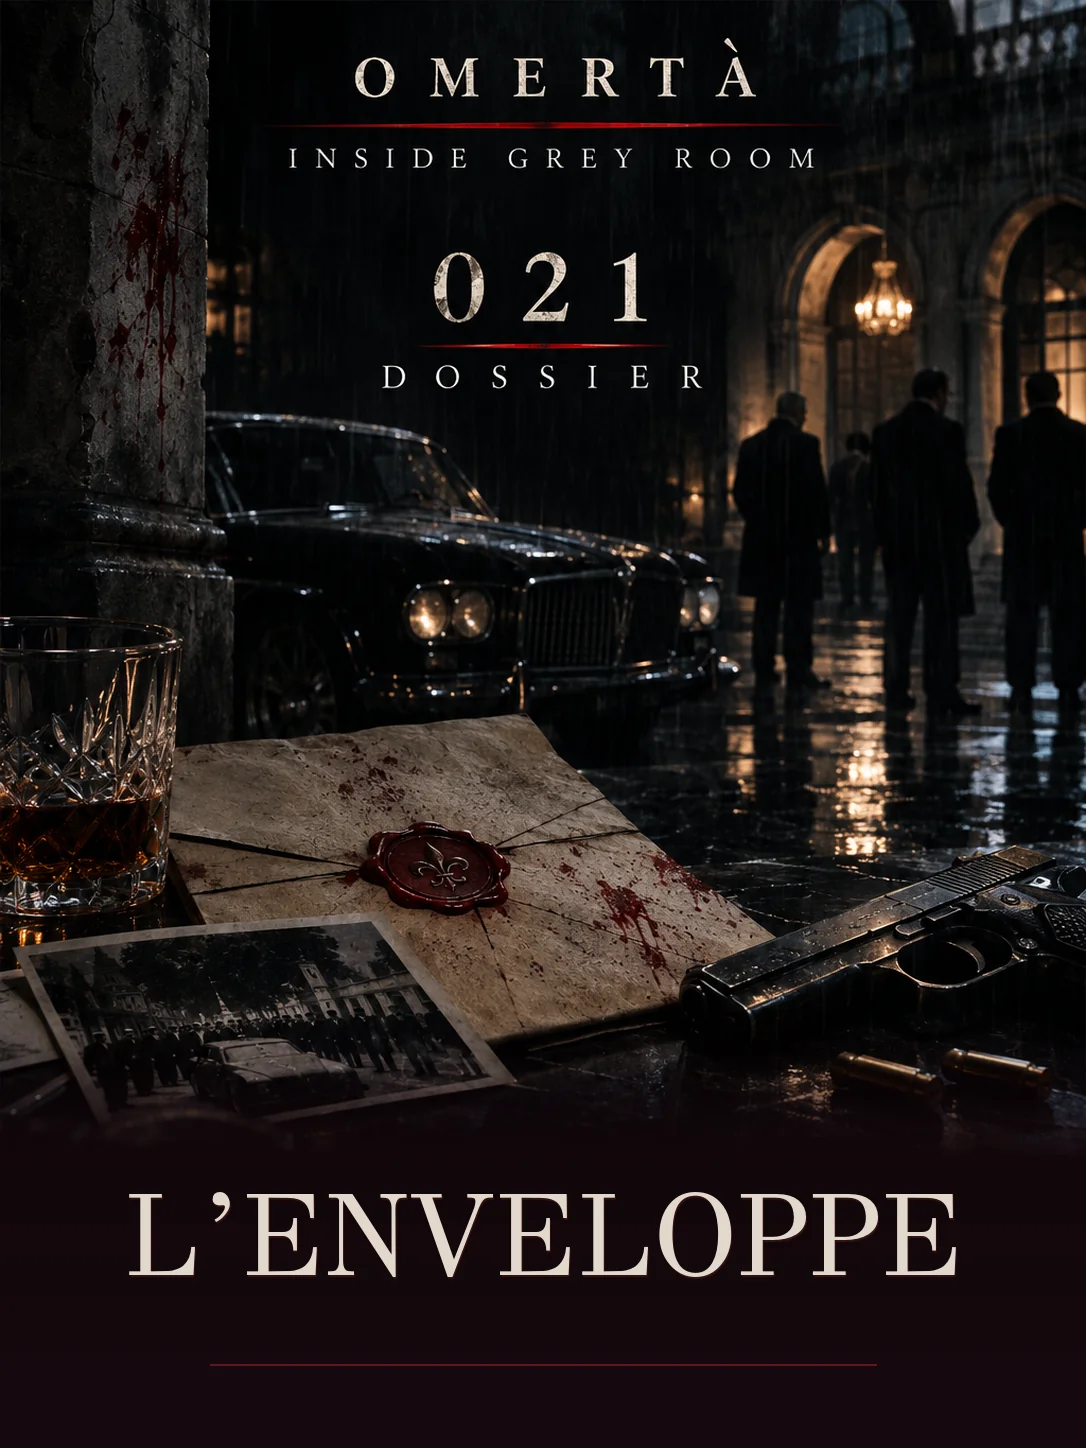
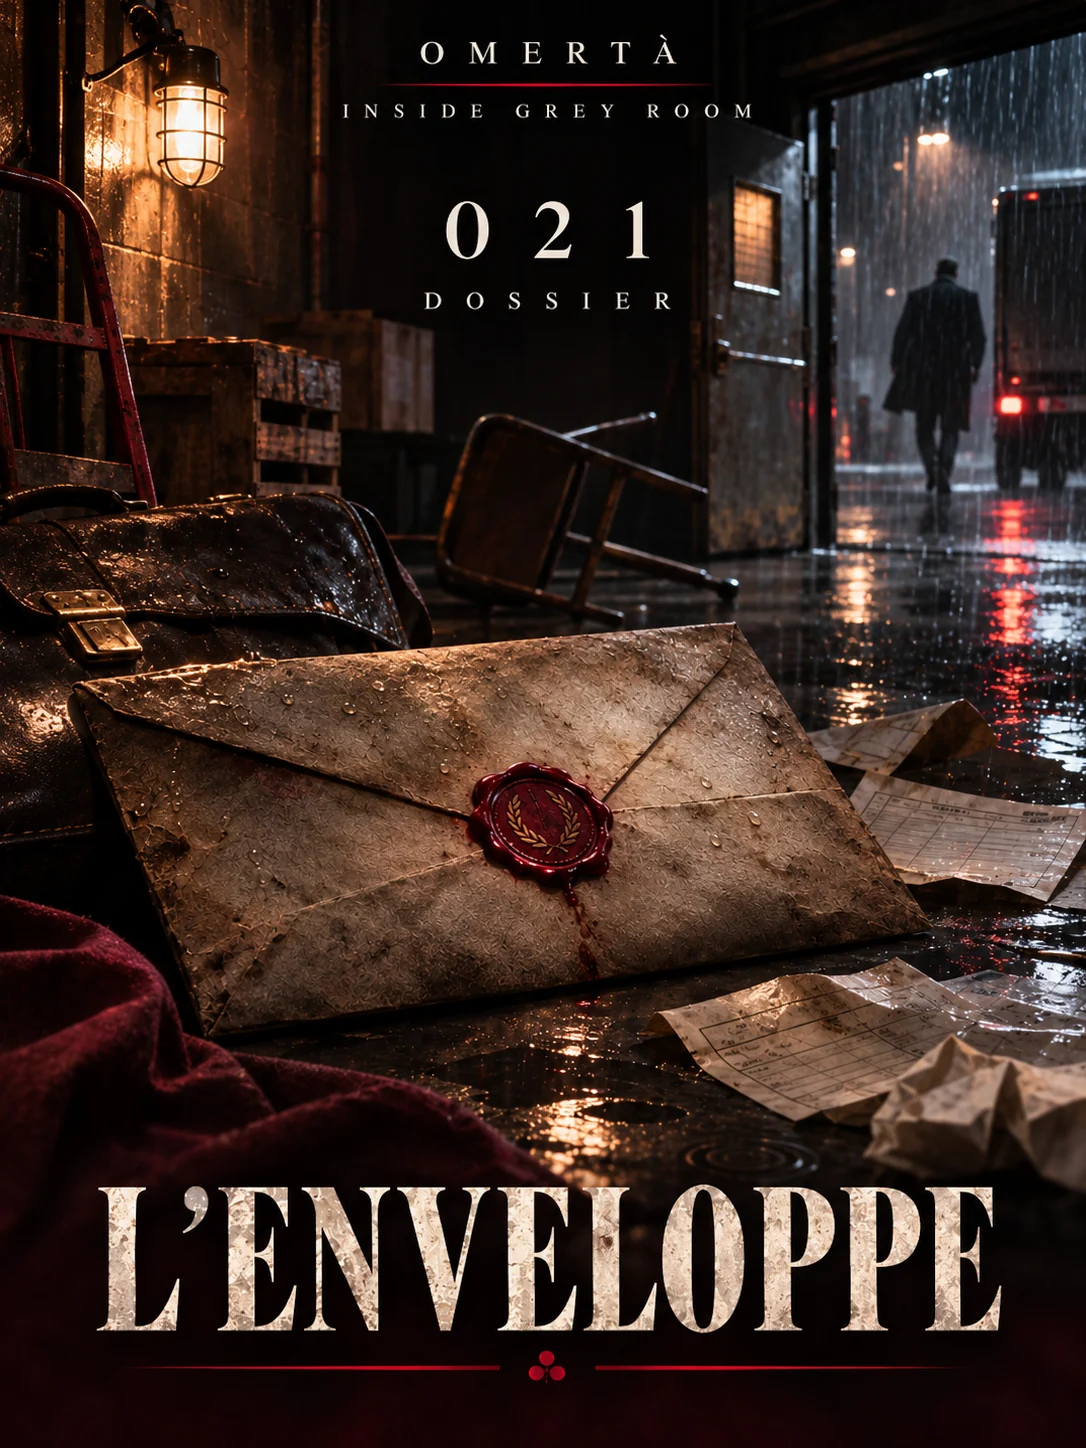
Omertà 021 — intégrer la nouvelle affiche sous la pluie
Remplace uniquement l'image du dossier 021 par le visuel 3:4 approuvé et rafraîchit les références et le cache PWA sans modifier 022–025.

diff --git a/service-worker.js b/service-worker.js
@@ -1,4 +1,4 @@
-const CACHE='igr-omerta-posters-v757-20261117';
+const CACHE='igr-omerta-021-rain-v758-20261117';
 const SHELL=[
   '/regime-live-v13.css?v=regime-v16-rosters-20261115',
   '/catalog-descriptions-v1.css?v=v730-direct-dlc-selector-poster-fit-20261116',
@@ -27,14 +27,14 @@ const SHELL=[
   '/heritage-maitre-data-v34.js?v=v34.9-maitre-theme-posters','/heritage-maitre-assets-v34.js?v=v34.9-maitre-theme-posters','/heritage-maitre-v34.js?v=v34.9-maitre-theme-posters','/heritage-maitre-online-v34-4.js?v=v34.9-maitre-theme-posters','/heritage-maitre-polish-v34.js?v=v34.9-maitre-theme-posters','/heritage-maitre-mobile-v34-5.js?v=v34.9-maitre-theme-posters',
   '/language-v12.js?v=v12.22-mobile-ui','/i18n-en-v12.js?v=v12.22-mobile-ui',
   '/rules-v12.js?v=20261018-grey-room-protocol','/locale-settings-v12.js?v=v12.22-mobile-ui','/ui-polish-v12.js?v=v12.22-mobile-ui','/locale-runtime-v12-23.js?v=v12.23-locale-home',
-  '/omerta-v12.js?v=v755-uniform-dlc-hooks-20261117','/omerta-polish-v12.js?v=santoro-visual-fix-20261108-v724-role-ux-20261116','/omerta-hotfix-v12.js?v=santoro-visual-fix-20261108','/role-tree-polish-v12-29.js?v=v12.29-role-tree','/omerta-v12-30.js?v=omerta-posters-v757-20261117',
-  '/omerta-v12-39.js?v=omerta-posters-v757-20261117','/omerta-money-intel-v1.js?v=santoro-display-audit-20261108','/omerta-santoro-verdict-v28.js?v=omerta-023-spy-v1','/omerta-023-spy-v1.js?v=omerta-023-spy-v1','/terror-v12-37.js?v=v755-uniform-dlc-hooks-20261117','/dlc-suite-v12-37.js?v=v756-preclic-024-027-029-20261117','/live-cell-v12-44.js?v=v12.44-live-cell','/dlc-profile-ui-v12-44.js?v=v12.44-ui','/dlc-invites-v12-45.js?v=v12.45-dlc-invites','/dlc-copy-v12-46.js?v=regime-v14-main-sync-20261115',
+  '/omerta-v12.js?v=v755-uniform-dlc-hooks-20261117','/omerta-polish-v12.js?v=santoro-visual-fix-20261108-v724-role-ux-20261116','/omerta-hotfix-v12.js?v=santoro-visual-fix-20261108','/role-tree-polish-v12-29.js?v=v12.29-role-tree','/omerta-v12-30.js?v=omerta-021-rain-v758-20261117',
+  '/omerta-v12-39.js?v=omerta-021-rain-v758-20261117','/omerta-money-intel-v1.js?v=santoro-display-audit-20261108','/omerta-santoro-verdict-v28.js?v=omerta-023-spy-v1','/omerta-023-spy-v1.js?v=omerta-023-spy-v1','/terror-v12-37.js?v=v755-uniform-dlc-hooks-20261117','/dlc-suite-v12-37.js?v=v756-preclic-024-027-029-20261117','/live-cell-v12-44.js?v=v12.44-live-cell','/dlc-profile-ui-v12-44.js?v=v12.44-ui','/dlc-invites-v12-45.js?v=v12.45-dlc-invites','/dlc-copy-v12-46.js?v=regime-v14-main-sync-20261115',
   '/manifest.webmanifest','/privacy.html','/terms.html','/delete-account.html','/support.html',
   '/assets/intro-v10-16.webp?v=20261018-intro-v16','/assets/home-v10-14.webp','/assets/icon-192-v9.png','/assets/icon-512-v9.png','/assets/apple-touch-icon-v9.png','/assets/favicon-v9.png',
   '/assets/heritage-cendres-01-personne-n-existe.webp?v=v13.6-heritage-premium','/assets/heritage-cendres-02-04-17.webp?v=v13.6-heritage-premium','/assets/heritage-cendres-03-la-chambre.webp?v=v13.6-heritage-premium','/assets/heritage-cendres-04-cendres.webp?v=v13.6-heritage-premium','/assets/heritage-cendres-05-point-zero.webp?v=v13.6-heritage-premium',
   '/assets/heritage-kuroi-01-l-oyabun.webp?v=v13.6-heritage-premium','/assets/heritage-kuroi-02-giri.webp?v=v13.6-heritage-premium','/assets/heritage-kuroi-03-les-mains-sales.webp?v=v13.6-heritage-premium','/assets/heritage-kuroi-04-la-dette.webp?v=v13.6-heritage-premium','/assets/heritage-kuroi-05-le-conseil.webp?v=v13.6-heritage-premium',
   '/assets/heritage-maitre-01-le-client-final.webp?v=v34.9-maitre-theme-posters','/assets/heritage-maitre-02-le-deal-final.webp?v=v34.9-maitre-theme-posters','/assets/heritage-maitre-03-deux-choix-final.webp?v=v34.9-maitre-theme-posters','/assets/heritage-maitre-04-le-proces-final.webp?v=v34.9-maitre-theme-posters','/assets/heritage-maitre-05-l-honneur-final.webp?v=v34.9-maitre-theme-posters',
-  '/assets/omerta-021-l-enveloppe.webp?v=omerta-posters-v757-20261117','/assets/omerta-022-omerta.webp?v=omerta-posters-v757-20261117','/assets/omerta-023-la-table.webp?v=omerta-posters-v757-20261117','/assets/omerta-024-il-pentito.webp?v=omerta-posters-v757-20261117','/assets/omerta-025-il-don.webp?v=omerta-posters-v757-20261117',
+  '/assets/omerta-021-l-enveloppe.webp?v=omerta-021-rain-v758-20261117','/assets/omerta-022-omerta.webp?v=omerta-posters-v757-20261117','/assets/omerta-023-la-table.webp?v=omerta-posters-v757-20261117','/assets/omerta-024-il-pentito.webp?v=omerta-posters-v757-20261117','/assets/omerta-025-il-don.webp?v=omerta-posters-v757-20261117',
   '/assets/terror-026-la-ville-tombe-v750.webp?v=v751-terreur-fullbleed','/assets/terror-027-la-zone-rouge-v750.webp?v=v751-terreur-fullbleed','/assets/terror-028-dernier-perimetre-v750.webp?v=v751-terreur-fullbleed',
   '/assets/cartel-029-poster-v2.svg?v=v20261018-cartel-clean-scene-v6','/assets/cartel-030-poster-v2.svg?v=v20261018-cartel-clean-scene-v6','/assets/cartel-031-poster-v2.svg?v=v20261018-cartel-clean-scene-v6',
   '/assets/regime-032-les-archives-du-palais.webp?v=v753-regime-silver-fullbleed-20261117','/assets/regime-033-la-dynastie.webp?v=v753-regime-silver-fullbleed-20261117','/assets/regime-034-les-noms-quils-portaient.webp?v=v753-regime-silver-fullbleed-20261117'

diff --git a/index.html b/index.html
@@ -105,8 +105,8 @@
   <script src="omerta-polish-v12.js?v=santoro-visual-fix-20261108-v724-role-ux-20261116"></script>
   <script src="omerta-hotfix-v12.js?v=santoro-visual-fix-20261108"></script>
   <script src="role-tree-polish-v12-29.js?v=v12.29-role-tree"></script>
-  <script src="omerta-v12-30.js?v=omerta-posters-v757-20261117"></script>
-  <script src="omerta-v12-39.js?v=omerta-posters-v757-20261117"></script>
+  <script src="omerta-v12-30.js?v=omerta-021-rain-v758-20261117"></script>
+  <script src="omerta-v12-39.js?v=omerta-021-rain-v758-20261117"></script>
   <script src="terror-v12-37.js?v=v755-uniform-dlc-hooks-20261117"></script>
   <script src="dlc-suite-v12-37.js?v=v756-preclic-024-027-029-20261117"></script>
   <script src="live-cell-v12-44.js?v=v12.44-live-cell"></script>

diff --git a/omerta-v12-39.js b/omerta-v12-39.js
@@ -5,7 +5,7 @@
 
   const OMERTA_IDS = new Set(['021','022','023','024','025']);
   const ART = Object.freeze({
-    '021':'assets/omerta-021-l-enveloppe.webp?v=omerta-posters-v757-20261117',
+    '021':'assets/omerta-021-l-enveloppe.webp?v=omerta-021-rain-v758-20261117',
     '022':'assets/omerta-022-omerta.webp?v=omerta-posters-v757-20261117',
     '023':'assets/omerta-023-la-table.webp?v=omerta-posters-v757-20261117',
     '024':'assets/omerta-024-il-pentito.webp?v=omerta-posters-v757-20261117',

diff --git a/omerta-v12-30.js b/omerta-v12-30.js
@@ -7,7 +7,7 @@
   const IDS=['021','022','023','024','025'];
   const OMERTA=new Set(IDS);
   const ART={
-    '021':'assets/omerta-021-l-enveloppe.webp?v=omerta-posters-v757-20261117',
+    '021':'assets/omerta-021-l-enveloppe.webp?v=omerta-021-rain-v758-20261117',
     '022':'assets/omerta-022-omerta.webp?v=omerta-posters-v757-20261117',
     '023':'assets/omerta-023-la-table.webp?v=omerta-posters-v757-20261117',
     '024':'assets/omerta-024-il-pentito.webp?v=omerta-posters-v757-20261117',
